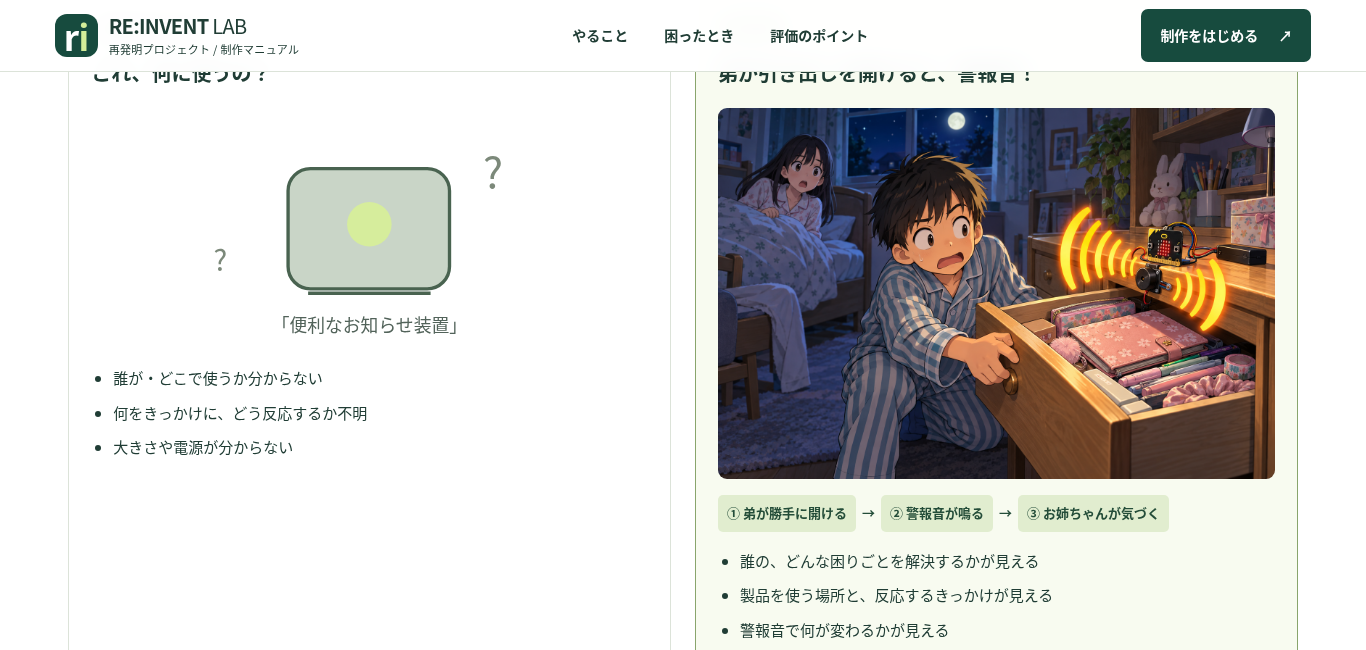
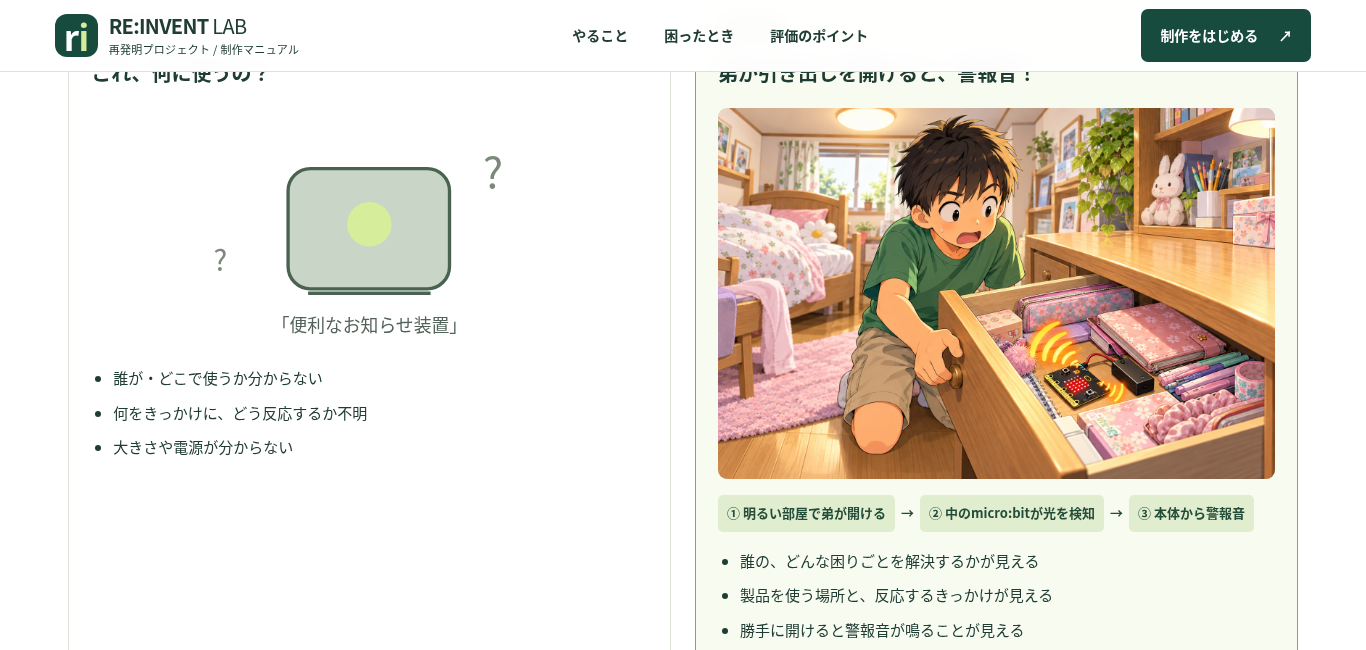
Correct drawer alarm illustration and explain onboard light sensing and sound

Changed region(s): [[0.5227, 0.1538, 0.9531, 0.8308], [0.5227, 0.9538, 0.7379, 0.9846]]

diff --git a/index.html b/index.html
@@ -21,7 +21,7 @@
 </section>
 <section id="drawing" class="section drawing-section"><div class="section-heading"><div><div class="eyebrow">SHOW THE IDEA, NOT JUST THE SHAPE</div><h2>絵のうまさより、「使い方」が伝わるか。</h2></div><p>同じ製品でも、描く情報で伝わり方が変わります。<br>手描きでも、AIで作っても、確認することは同じ。</p></div>
 <div class="drawing-grid"><article class="drawing-example unclear"><div class="drawing-title"><span>情報が足りない例</span><b>これ、何に使うの？</b></div><svg viewBox="0 0 500 220" role="img" aria-label="箱と光だけで、設置場所や使い方が不明な製品図"><rect x="177" y="58" width="145" height="108" rx="20" fill="#c9d5c7" stroke="#496350" stroke-width="3"/><circle cx="250" cy="108" r="20" fill="#d6ed9c"/><path d="M195 170h110" stroke="#496350" stroke-width="3"/><text x="352" y="75" font-size="38" fill="#7c897a">?</text><text x="110" y="150" font-size="26" fill="#7c897a">?</text><text x="250" y="205" text-anchor="middle" font-size="16" fill="#52635a">「便利なお知らせ装置」</text></svg><ul><li>誰が・どこで使うか分からない</li><li>何をきっかけに、どう反応するか不明</li><li>大きさや電源が分からない</li></ul></article>
-<article class="drawing-example clear"><div class="drawing-title"><span>伝わる例</span><b>弟が引き出しを開けると、警報音！</b></div><img class="alarm-scene" src="assets/drawer-alarm.png" alt="夜中、お姉ちゃんの部屋にこっそり入った弟が机の引き出しを開けると、micro:bitにつながったブザーから警報音が鳴り、お姉ちゃんが気づく場面"><div class="scene-sequence"><span>① 弟が勝手に開ける</span><span>→</span><span>② 警報音が鳴る</span><span>→</span><span>③ お姉ちゃんが気づく</span></div><ul><li>誰の、どんな困りごとを解決するかが見える</li><li>製品を使う場所と、反応するきっかけが見える</li><li>警報音で何が変わるかが見える</li></ul></article></div><p class="example-caption">製品の使用場面を伝える完成イメージです。実物の動作を証明する動画や、配線図とは別です。大きさ・電源・接続は、別の図や注釈で補おう。</p><details class="scene-note"><summary>この製品を実際につくるなら？<span>＋</span></summary><p>夜中でも開閉を検知できる方法を、使える機材の中から選びます。明るさセンサだけで暗い部屋の開閉を検知できるとは限りません。ブザーの接続と音量を確認し、先生や家族と相談して試そう。「開いたことを知らせる」製品であり、開けること自体を防ぐ製品ではありません。</p></details><div class="drawing-check"><b>絵を見直す5つの質問</b><span>誰が使う？</span><span>どこに置く？</span><span>何をすると？</span><span>どう反応する？</span><span>大きさ・電源は？</span></div></section>
+<article class="drawing-example clear"><div class="drawing-title"><span>伝わる例</span><b>弟が引き出しを開けると、警報音！</b></div><img class="alarm-scene" src="assets/drawer-alarm.png" alt="お姉ちゃんが不在の明るい部屋で、私服の小学生の弟が机の引き出しを勝手に開ける。引き出しの中にLED・明るさセンサ面を上向きに置いたmicro:bitが光を検知し、本体から警報音が鳴る場面"><div class="scene-sequence"><span>① 明るい部屋で弟が開ける</span><span>→</span><span>② 中のmicro:bitが光を検知</span><span>→</span><span>③ 本体から警報音</span></div><ul><li>誰の、どんな困りごとを解決するかが見える</li><li>製品を使う場所と、反応するきっかけが見える</li><li>勝手に開けると警報音が鳴ることが見える</li></ul></article></div><p class="example-caption">製品の使用場面を伝える完成イメージです。実物の動作を証明する動画や、配線図とは別です。大きさ・電源・接続は、別の図や注釈で補おう。</p><details class="scene-note"><summary>この製品を実際につくるなら？<span>＋</span></summary><p>この例は内蔵スピーカーのあるmicro:bit V2を想定しています。LED・明るさセンサ面を上にして引き出しの中に置き、閉じたときと、室内灯の下で開けたときの明るさを比べ、反応する条件を決めます。暗い部屋では検知できない場合があります。本体の警報音と音量を確認し、先生や家族と相談して試そう。「開いたことを知らせる」製品であり、開けること自体を防ぐ製品ではありません。</p></details><div class="drawing-check"><b>絵を見直す5つの質問</b><span>誰が使う？</span><span>どこに置く？</span><span>何をすると？</span><span>どう反応する？</span><span>大きさ・電源は？</span></div></section>
 <section id="testing" class="section testing-section"><div class="section-heading"><div><div class="eyebrow">TRY → RECORD → IMPROVE</div><h2>「動いた！」を、確かな証拠に。</h2></div><p>動画と記録は、きみの取り組みを伝える材料。<br>成功したことも、まだできないことも残そう。</p></div><div class="testing-grid"><article><span class="number-chip">01</span><h3>成功の条件を決める</h3><p>「何をしたら、どう動くか」を先に書く。</p><blockquote>Class「持ち物あり」の画像を映すと、micro:bitに✓を表示する。「なし」なら×に変わる。</blockquote></article><article><span class="number-chip">02</span><h3>条件を変えて試す</h3><p>正しく動いたときだけでなく、違う場面も確かめる。</p><blockquote>背景が変わったら？ 少し暗かったら？ 物の向きが変わったら？</blockquote></article><article><span class="number-chip">03</span><h3>結果から次を考える</h3><p>何が起きたかを記録し、原因と改善を考える。</p><blockquote>背景が変わると誤認識した。背景の特徴を覚えた可能性がある。違う背景でも学習し直して確かめる。</blockquote></article></div>
 <details class="record-example"><summary>実験記録の見本を見る<span>＋</span></summary><div class="table-scroll"><table><caption>架空の記録例：結果を見て、考えをどう進めるか</caption><thead><tr><th>試した条件</th><th>結果</th><th>考察・次にすること</th></tr></thead><tbody><tr><td>学習時と同じ背景で2つのClassを映す</td><td>各5回のうち、それぞれ5回、対応する表示に変わった</td><td>この条件では入力と出力が連動した。背景を変えて試す</td></tr><tr><td>別の背景で「持ち物あり」を映す</td><td>5回中2回、「なし」と判定した</td><td>背景の影響かもしれない。複数の背景で学習し直す</td></tr><tr><td>学習し直して、別の背景で再確認</td><td>5回中5回、✓を表示した</td><td>今回の条件では改善。暗い場所ではまだ未確認</td></tr></tbody></table></div><p>回数は例です。成功回数だけで評価は決まりません。条件・結果・判断がつながっていることが大切です。</p></details>
 <div class="video-tip"><span class="video-symbol">▷</span><div><h3>動画には「きっかけ」と「反応」を入れよう。</h3><p>何をカメラやセンサに見せたか → 判定や値 → micro:bitがどう反応したか。必要なら画面録画と実物の映像を組み合わせます。個人の顔や名前を映さなくても説明できます。</p></div></div></section>
